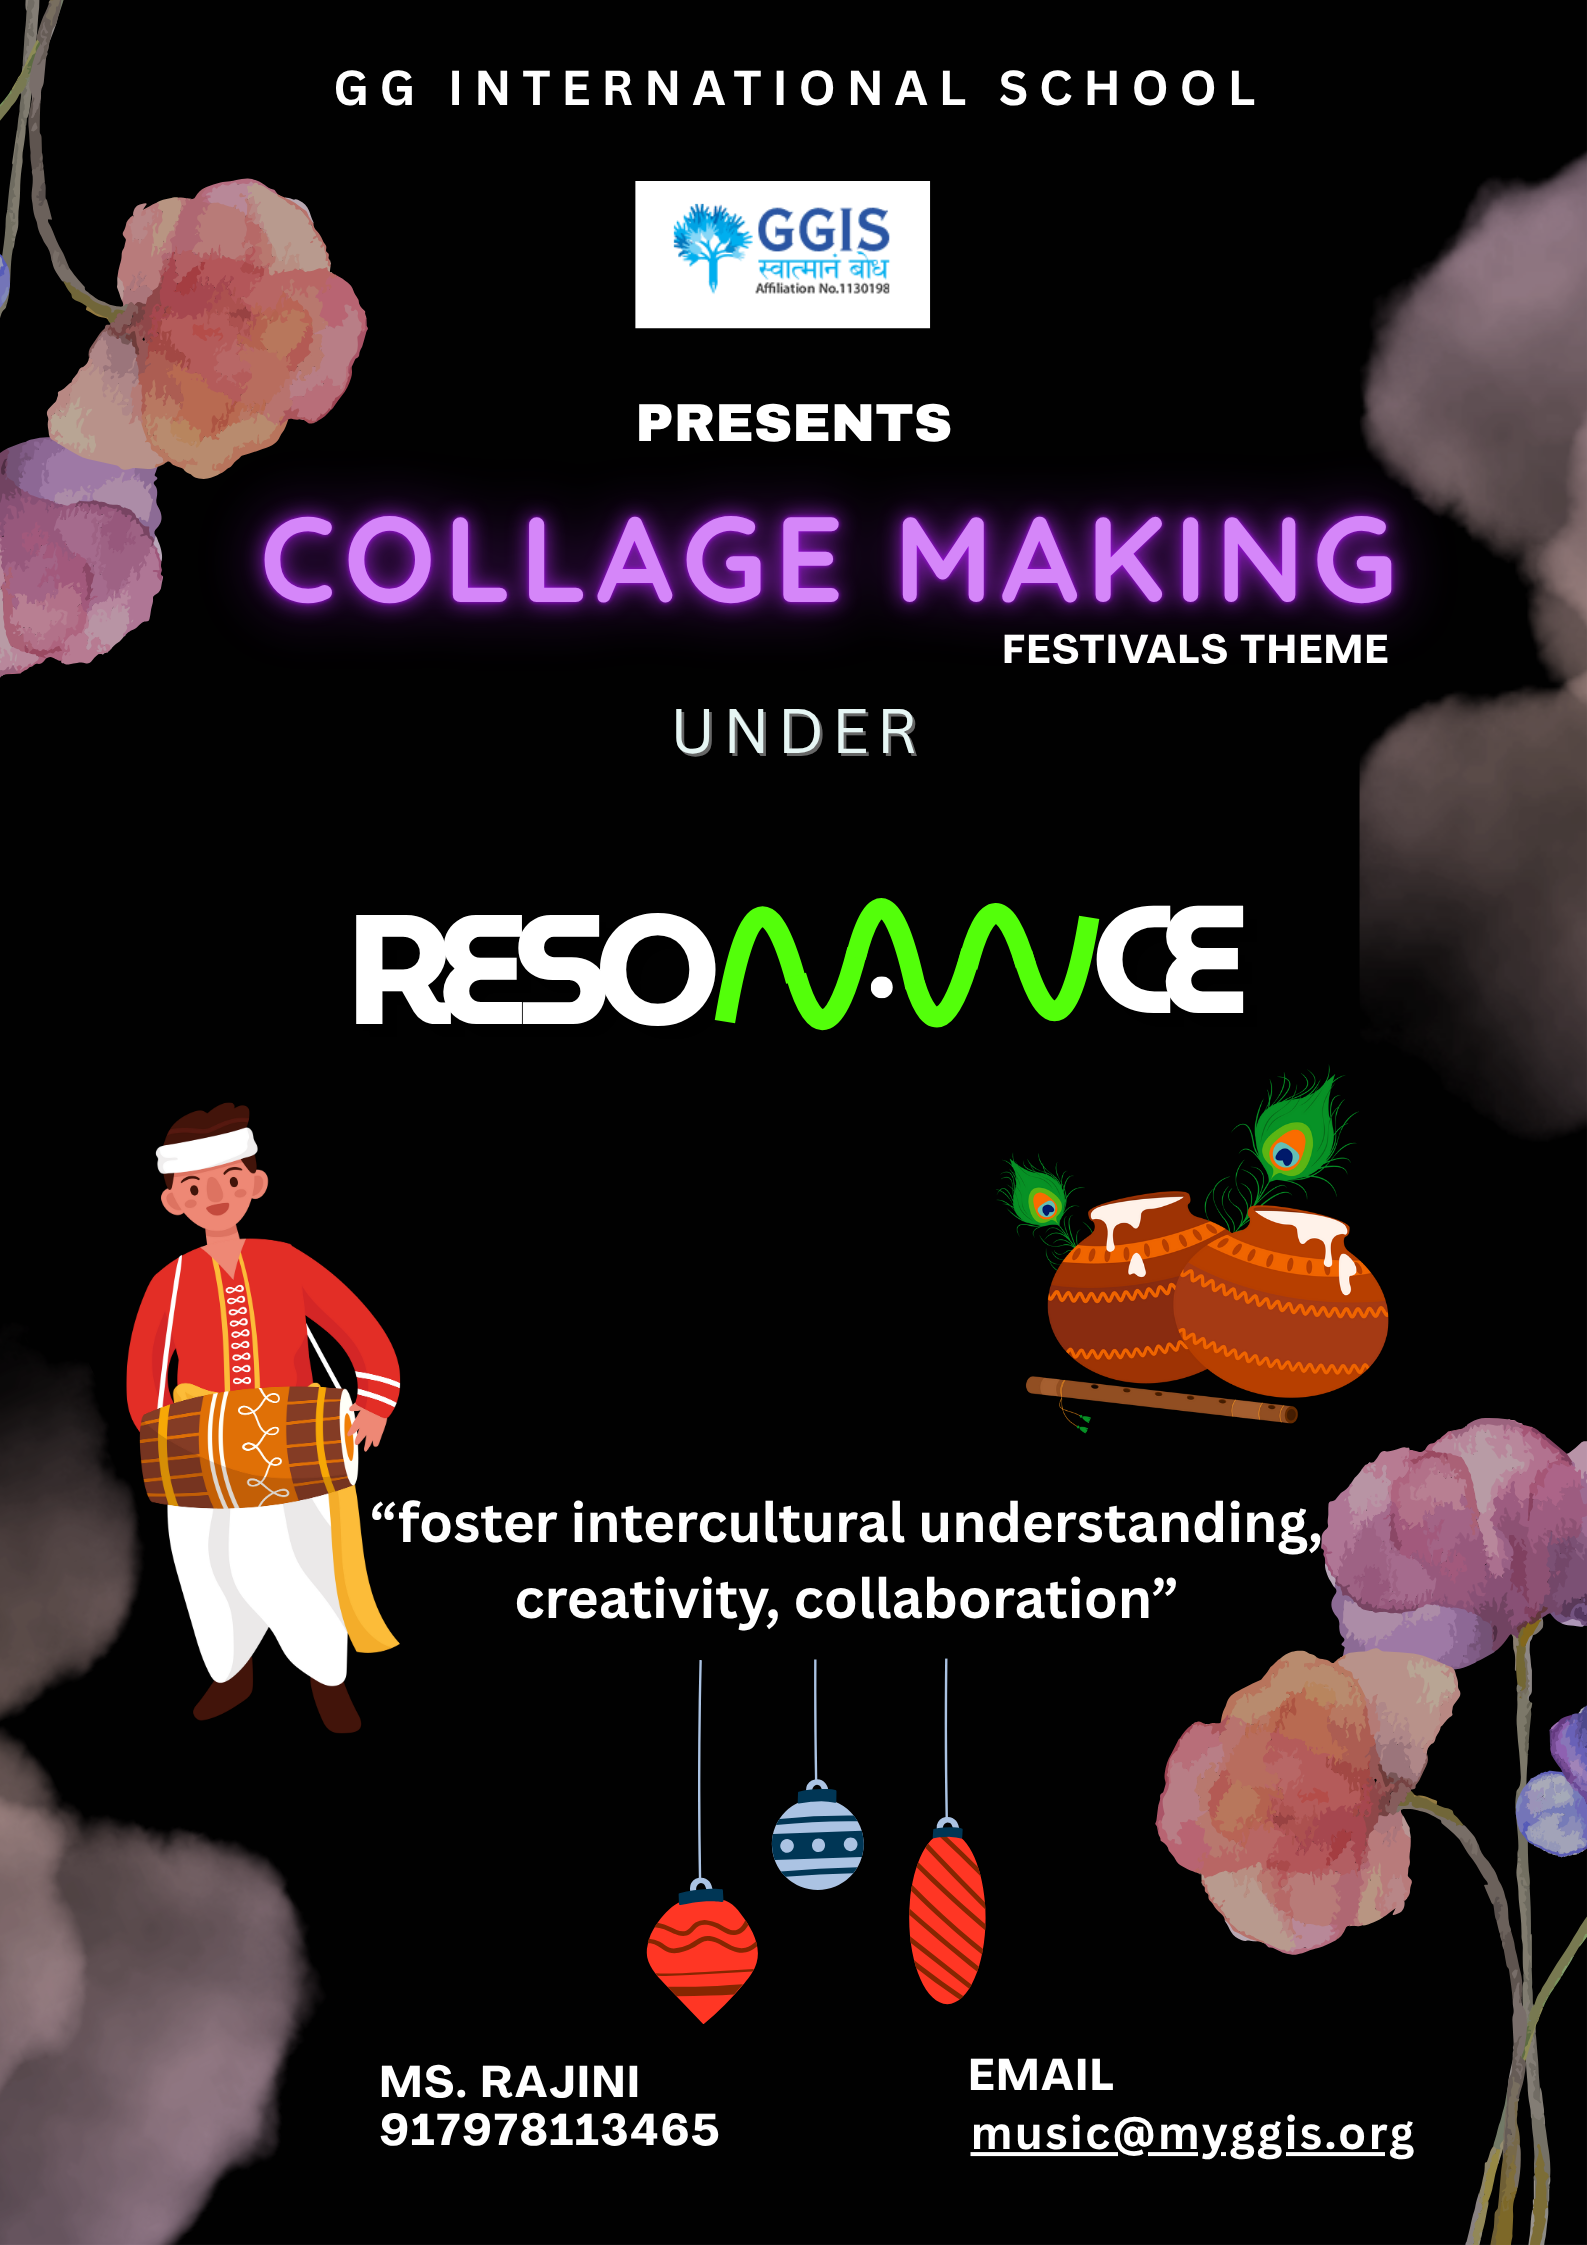
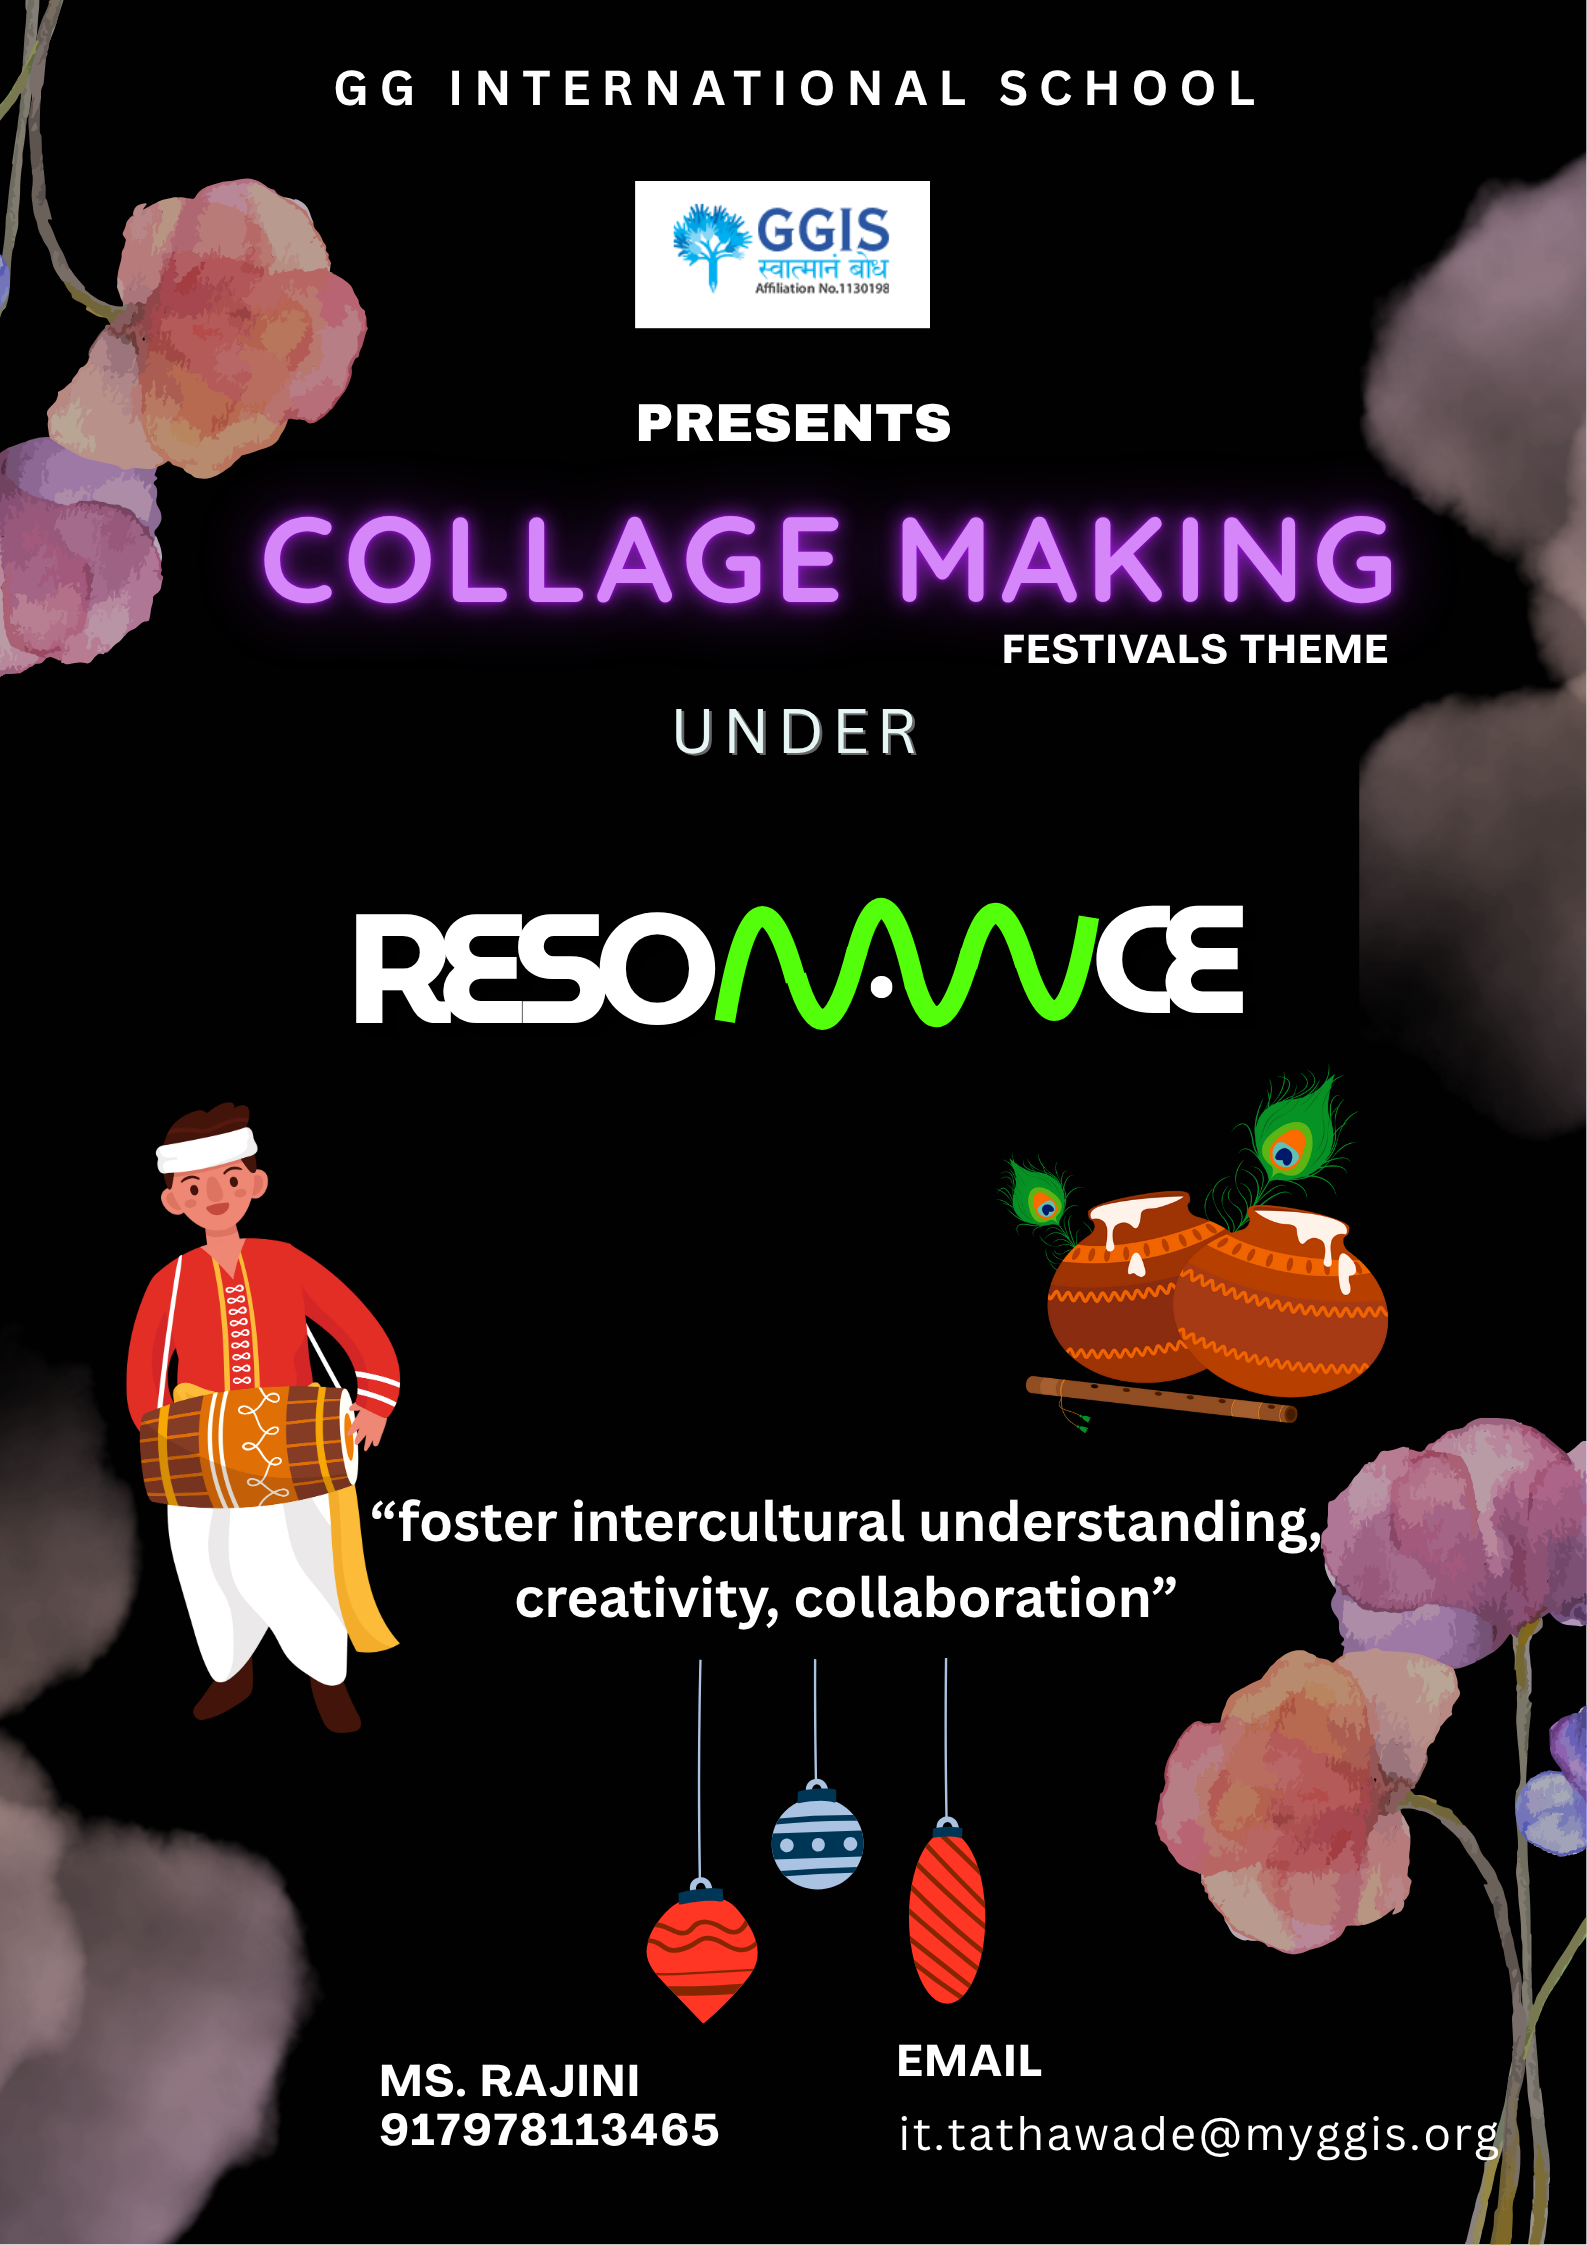
Added route protection and updated story spin off event poster

diff --git a/src/App.js b/src/App.js
@@ -11,6 +11,7 @@ import { Design, Footer, Navbar } from "./components";
 import Disclaimer from "./components/Disclaimer";
 
 import { useState, useEffect } from "react";
+import ProtectedRoute from "./components/ProtectedRoute";
 
 function App() {
   const [showDisclaimer, setShowDisclaimer] = useState(false);
@@ -38,9 +39,21 @@ function App() {
           <Route path="/events" element={<Events />} />
           <Route path="/calender" element={<Calender />} />
           <Route path="/contact" element={<Footer />} />
-          <Route path="/:eventName" element={<About />} />
-          <Route path="/:eventName/register" element={<SchoolRegistration />} />
-          <Route path="/guide" element={<Disclaimer onClose={() => {}} />} />
+           <Route path="/:eventName"
+            element={
+              <ProtectedRoute>
+                <About />
+              </ProtectedRoute>
+            }
+          />
+          <Route path="/:eventName/register"
+            element={
+              <ProtectedRoute>
+                <SchoolRegistration />
+              </ProtectedRoute>
+            }
+          />
+          <Route path="/guide" element={<Disclaimer onClose={() => { }} />} />
         </Routes>
       </BrowserRouter>
       <Footer />

diff --git a/src/components/ProtectedRoute.js b/src/components/ProtectedRoute.js
@@ -1,0 +1,30 @@
+// components/ProtectedRoute.js
+import { useEffect, useState } from 'react';
+import { Navigate, useLocation } from "react-router-dom";
+import { getAuth, onAuthStateChanged } from "firebase/auth";
+import { firebaseApp } from "../context/Firebase";
+
+const ProtectedRoute = ({ children }) => {
+  const [checking, setChecking] = useState(true);
+  const [isLoggedIn, setIsLoggedIn] = useState(false);
+  const location = useLocation();
+
+  useEffect(() => {
+    const auth = getAuth(firebaseApp);
+    const unsubscribe = onAuthStateChanged(auth, (user) => {
+      setIsLoggedIn(!!user);
+      setChecking(false);
+    });
+    return () => unsubscribe();
+  }, []);
+
+  if (checking) return null; // or show a spinner
+
+  // If not logged in, redirect to home - optionally preserve redirect path
+  if (!isLoggedIn)
+    return <Navigate to="/" state={{ from: location }} replace />;
+
+  return children;
+};
+
+export default ProtectedRoute;
